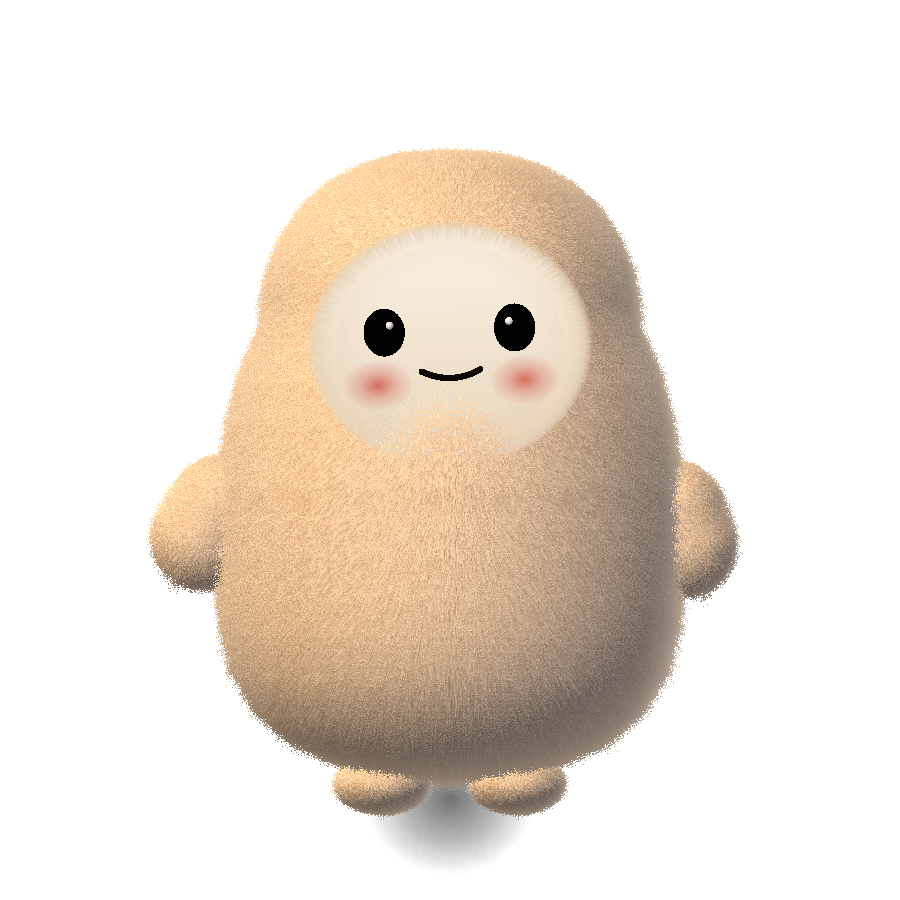
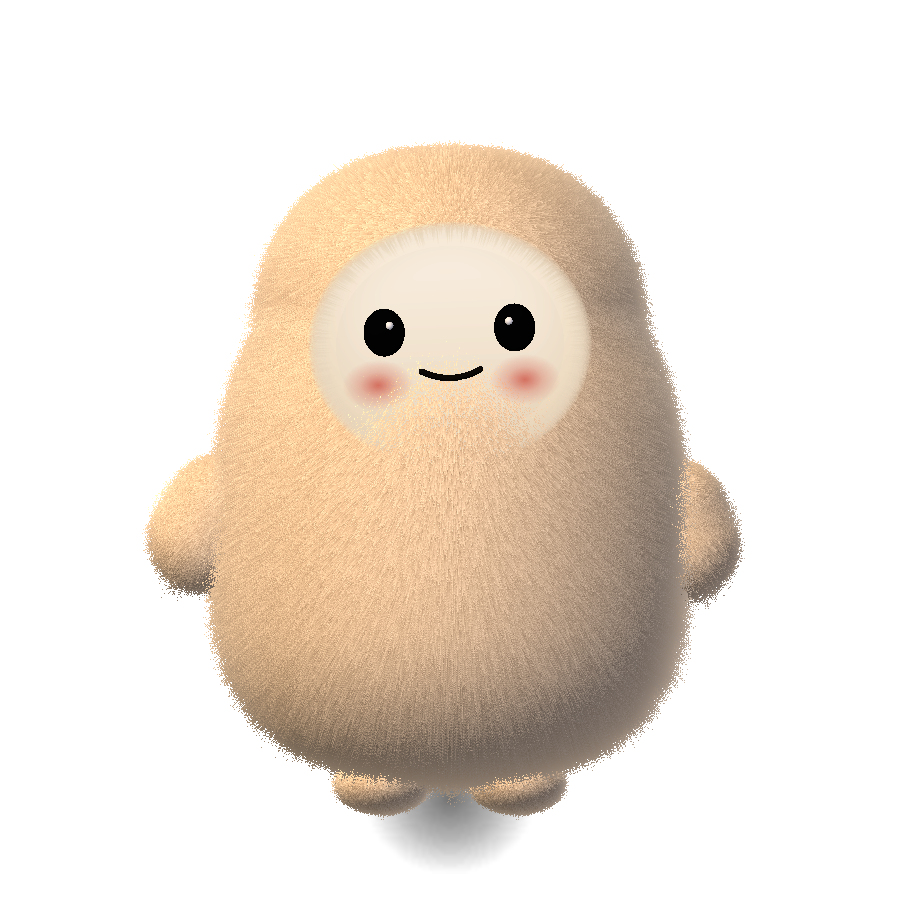
Longer, shaggier fur (body 20 layers, length 6.2)

diff --git a/Sources/Pip/PipRig.swift b/Sources/Pip/PipRig.swift
@@ -94,7 +94,7 @@ final class PipRig: PetRig {
         // 身体：一条轮廓线转一圈出来的钟形绒毛（兜帽和身体连成一片，没有接缝）
         let body = Lathe.node(profile: Self.bodyProfile, segments: 96, material: furMaterial)
         // 周长约 188 点、高约 82 点 → 每块贴图约 6 点见方，一根毛约 0.05 点粗
-        Fur.apply(to: body, colors: furColors, length: 4.2, tile: CGSize(width: 22, height: 10), layers: 16)
+        Fur.apply(to: body, colors: furColors, length: 6.2, tile: CGSize(width: 18, height: 8), layers: 20)
         bodyGroup.addChildNode(body)
 
         buildLeg(pivot: legPivotL, x: -9)
@@ -130,7 +130,7 @@ final class PipRig: PetRig {
         let arm = capsuleNode(radius: 6.2, height: 17, material: furMaterial)
         arm.position = SCNVector3(sign * 4.0, -6.0, 0)
         arm.eulerAngles = SCNVector3(0, 0, sign * 0.45)
-        Fur.apply(to: arm, colors: furColors, length: 2.6, tile: CGSize(width: 8, height: 5))
+        Fur.apply(to: arm, colors: furColors, length: 3.4, tile: CGSize(width: 7, height: 4), layers: 16)
         pivot.addChildNode(arm)
     }
 

diff --git a/HANDOFF.md b/HANDOFF.md
@@ -196,5 +196,5 @@ swift build                 # 调试编译
   左右摇摆约 8°、抬脚；被拎起双爪举高、拉长 12%、两腿往外乱蹬；落地压扁 25% 后多弹一下。
   修了下落/落地时左右手角度写反导致的不对称。
 - **灯光**：暖主光 900、冷补光 200、逆光 320，环境光降到 380，有明暗层次。
-- **性能**：打开 App 采样 5 次，CPU 2.0–6.7%（多数 ~2.5%），内存约 60–65MB。
+- **性能**：长毛版（身体 20 层、毛长 6.2）见下次采样记录。
 - 预览：`preview/plush.png`（五连）、`preview/plush-closeup.png`（特写）。
